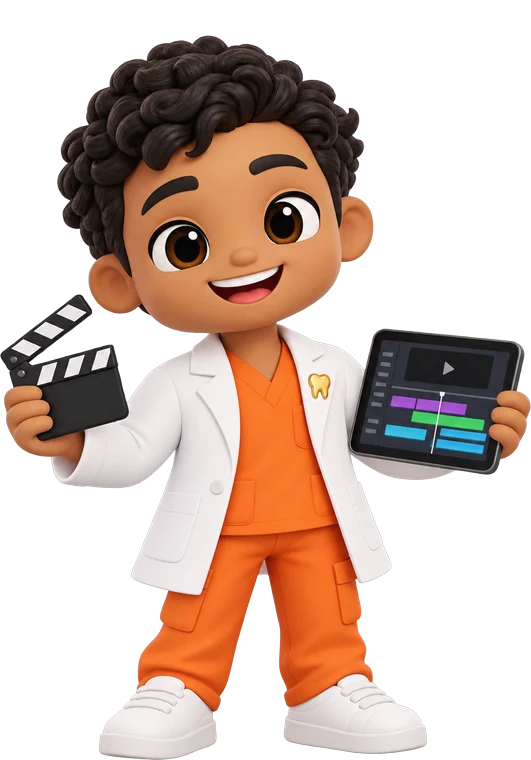
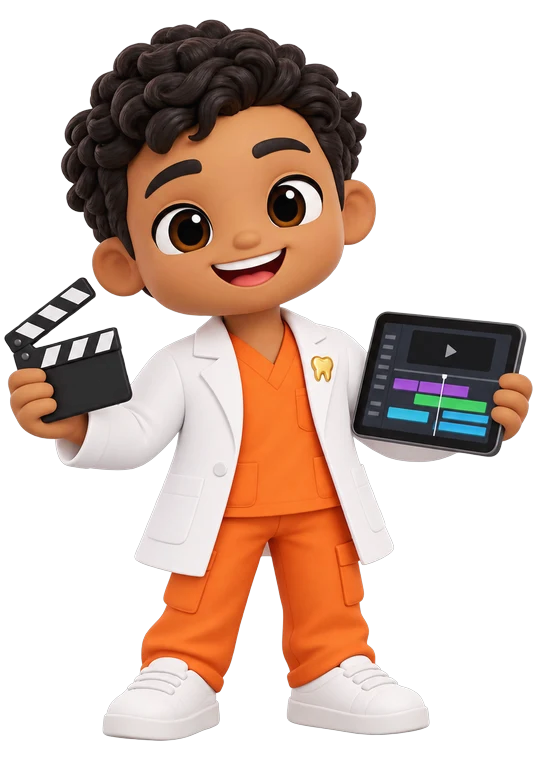
Arte do Editor e da Web Designer recortada como os outros agentes (sem cortar nas laterais)
Claude-Session: https://claude.ai/code/session_01GAeTvF2gt3mTsjeBLyqBXq

Changed region(s): [[0.0, 0.0303, 1.0, 1.0]]

diff --git a/src/pages/agentes/comum.ts b/src/pages/agentes/comum.ts
@@ -32,7 +32,7 @@ export type AgenteCatalogo = { id: string; nome: string; papel: string; descrica
 export const CATALOGO: AgenteCatalogo[] = [
   { id: 'marketing', nome: 'Marketing', papel: 'Conteúdo e campanhas', escopo: 'ambos', cor: '#a46ee6', foto: '/agentes/marketing.webp?v=4', avatar: '/agentes/marketing-avatar.webp?v=1', icone: 'grafico', trabalhando: 'montando a semana de conteúdo',
     descricao: 'Monta a semana de conteúdo do Instagram (posts, reels, stories e legendas) com o que a empresa vende agora. Nada é publicado sozinho: você aprova, copia e posta.' },
-  { id: 'editor', nome: 'Editor de Vídeo', papel: 'Edição de reels e vídeos', escopo: 'ambos', cor: '#f07f3c', foto: '/agentes/editor.webp?v=1', avatar: '/agentes/editor-avatar.webp?v=1', icone: 'video', trabalhando: 'editando vídeo',
+  { id: 'editor', nome: 'Editor de Vídeo', papel: 'Edição de reels e vídeos', escopo: 'ambos', cor: '#f07f3c', foto: '/agentes/editor.webp?v=2', avatar: '/agentes/editor-avatar.webp?v=1', icone: 'video', trabalhando: 'editando vídeo',
     descricao: 'Recebe o vídeo gravado, corta as pausas e as tomadas erradas pelo roteiro, coloca legenda, textos na tela e zoom, e entrega o vídeo pronto para postar. O vídeo fica no seu computador: nada é guardado no sistema.' },
   { id: 'atendimento', nome: 'Atendimento', papel: 'Conversas e relacionamento', escopo: 'ambos', cor: '#3f7df0', foto: '/agentes/atendimento.webp?v=5', avatar: '/agentes/atendimento-avatar.webp?v=2', icone: 'whats', trabalhando: 'respondendo leads',
     descricao: 'Responde o lead novo nas Conversas do Atendimento, tira dúvidas com o material da empresa e passa para a vendedora quando a pessoa quer comprar ou pede para falar com alguém. Entra quando o WhatsApp estiver ligado.' },
@@ -48,7 +48,7 @@ export const CATALOGO: AgenteCatalogo[] = [
     descricao: 'Acompanha o aluno do pagamento ao presencial: lembra a turma, a data e o que levar, pergunta como foi e chama de volta quem sumiu da plataforma.' },
   { id: 'recepcao', nome: 'Recepção', papel: 'Agenda e retornos', escopo: 'clinical', cor: '#c9ccd4', foto: '/agentes/recepcao.webp?v=4', avatar: '/agentes/recepcao-avatar.webp?v=1', icone: 'agenda', trabalhando: 'confirmando consultas',
     descricao: 'Confirma consulta, remarca e chama o paciente na hora do retorno pelo WhatsApp da clínica.' },
-  { id: 'web', nome: 'Web Designer', papel: 'Páginas, sites e domínios', escopo: 'ambos', cor: '#7b7ff0', foto: '/agentes/web.webp?v=1', avatar: '/agentes/web-avatar.webp?v=1', icone: 'globo', trabalhando: 'ajustando a página',
+  { id: 'web', nome: 'Web Designer', papel: 'Páginas, sites e domínios', escopo: 'ambos', cor: '#7b7ff0', foto: '/agentes/web.webp?v=2', avatar: '/agentes/web-avatar.webp?v=1', icone: 'globo', trabalhando: 'ajustando a página',
     descricao: 'Cria e ajusta páginas de venda e sites com a oferta e a marca da empresa, publica no ar e cuida do domínio, do DNS e do rastreamento das páginas.' },
 ]
 export const visualDe = (id: string) => CATALOGO.find((a) => a.id === id) ?? { id, nome: id, papel: '', descricao: '', escopo: 'ambos' as Escopo, cor: '#c9a45c', foto: '', icone: 'info', trabalhando: 'trabalhando' }
